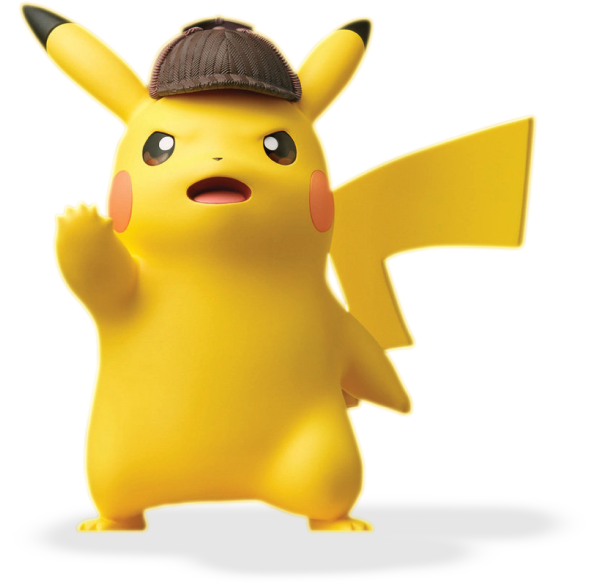
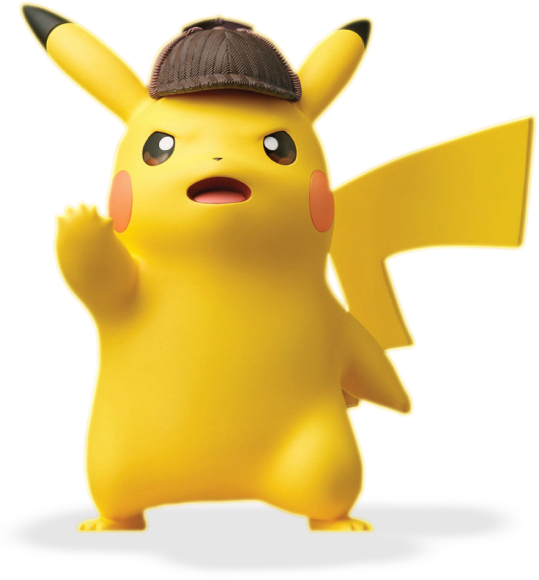
subop cambios

Changed region(s): [[0.0297, 0.0, 1.0, 0.931]]

diff --git a/header2.html b/header2.html
@@ -109,7 +109,7 @@
         }
 
         .pikachu {
-            background-image: url(./img/1.png);
+            background-image: url(./img/img-pikachu.png);
             width: 100%;
             position: absolute;
             height: 100%;
